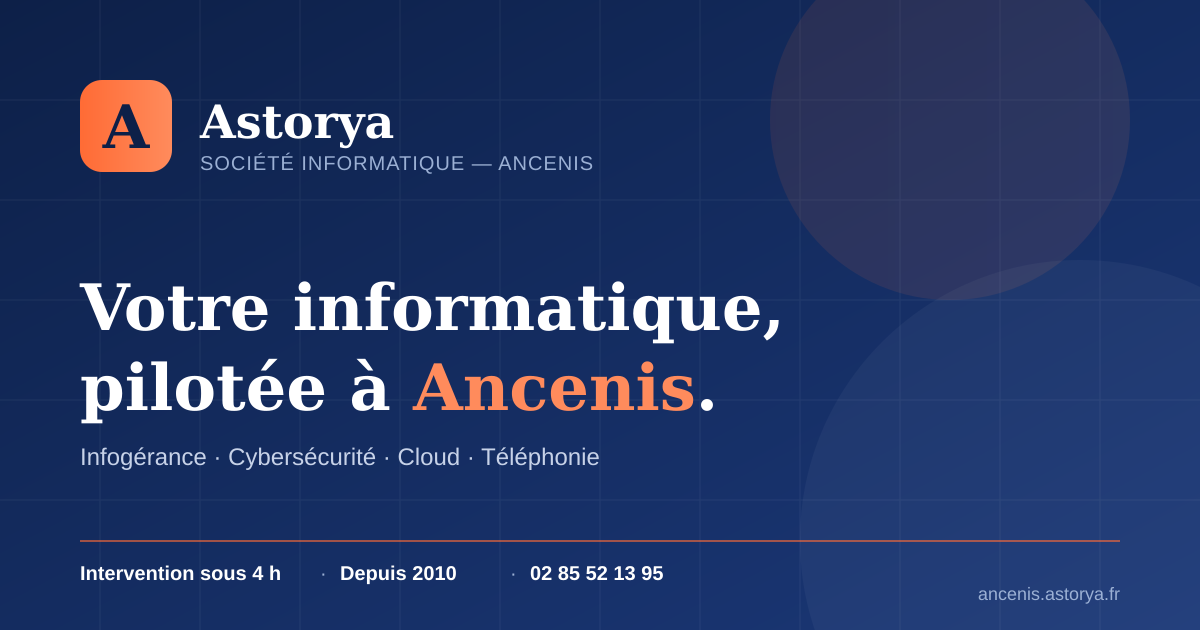
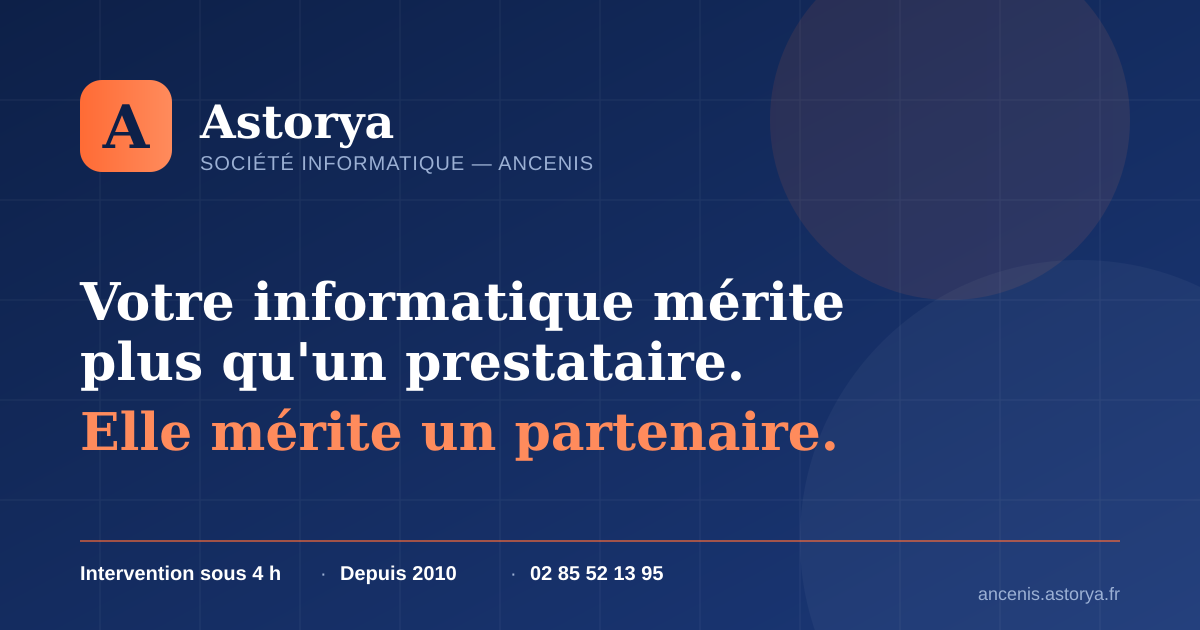
Tagline marketing 'partenaire, pas prestataire' déployée
- Bandeau dédié sous le hero de l'accueil avec la tagline en grand
  format sur fond navy + sous-titre 'équipe locale, 4h, engagements'.
- Citation en encart sur la landing societe-informatique-ancenis.html
  juste sous le lead.
- Image OG régénérée avec la tagline comme accroche principale.

Changed region(s): [[0.0617, 0.4222, 0.7092, 0.754]]

diff --git a/index.html b/index.html
@@ -285,6 +285,17 @@
   </div>
 </section>
 
+<!-- ============ TAGLINE BANNER ============ -->
+<section style="background:linear-gradient(135deg,#0D2048,#1B3878);padding:64px 24px;text-align:center;color:#fff;">
+  <div style="max-width:920px;margin:0 auto;">
+    <p style="font-family:'Bricolage Grotesque',serif;font-size:clamp(1.6rem,3.5vw,2.6rem);font-weight:600;line-height:1.25;margin:0;letter-spacing:-0.01em;">
+      Votre informatique mérite plus qu'un prestataire.<br>
+      <span style="background:linear-gradient(120deg,#FF6B35,#FF8B5C);-webkit-background-clip:text;background-clip:text;color:transparent;">Elle mérite un partenaire.</span>
+    </p>
+    <p style="margin:22px auto 0;max-width:680px;color:#C7D2E8;font-size:1.05rem;line-height:1.6;">Une équipe locale de 17 collaborateurs, une intervention sous 4&nbsp;heures, des engagements écrits&nbsp;: la différence entre un fournisseur et un partenaire.</p>
+  </div>
+</section>
+
 <!-- ============ SERVICES ============ -->
 <section class="section section--cream" id="services">
   <div class="container">

diff --git a/societe-informatique-ancenis.html b/societe-informatique-ancenis.html
@@ -213,6 +213,7 @@
     </div>
     <h1>Société informatique à Ancenis — Astorya, entreprise IT de proximité depuis 2010</h1>
     <p class="lead">Astorya est la <strong>société informatique d'Ancenis</strong> qui accompagne les PME et TPE du Pays d'Ancenis sur l'ensemble de leur système d'information. Une équipe locale de 17 collaborateurs, intervention sous 4 heures, contrats transparents et sans engagement&nbsp;: voilà ce que vous attendez d'une vraie <strong>entreprise informatique à Ancenis</strong>.</p>
+    <p style="margin-top:22px;padding:18px 22px;background:rgba(13,32,72,0.05);border-left:3px solid var(--accent);border-radius:8px;font-family:'Bricolage Grotesque',serif;font-size:1.15rem;font-weight:600;color:var(--navy);line-height:1.4;">Votre informatique mérite plus qu'un prestataire. Elle mérite un partenaire.</p>
   </div>
 </section>
 
